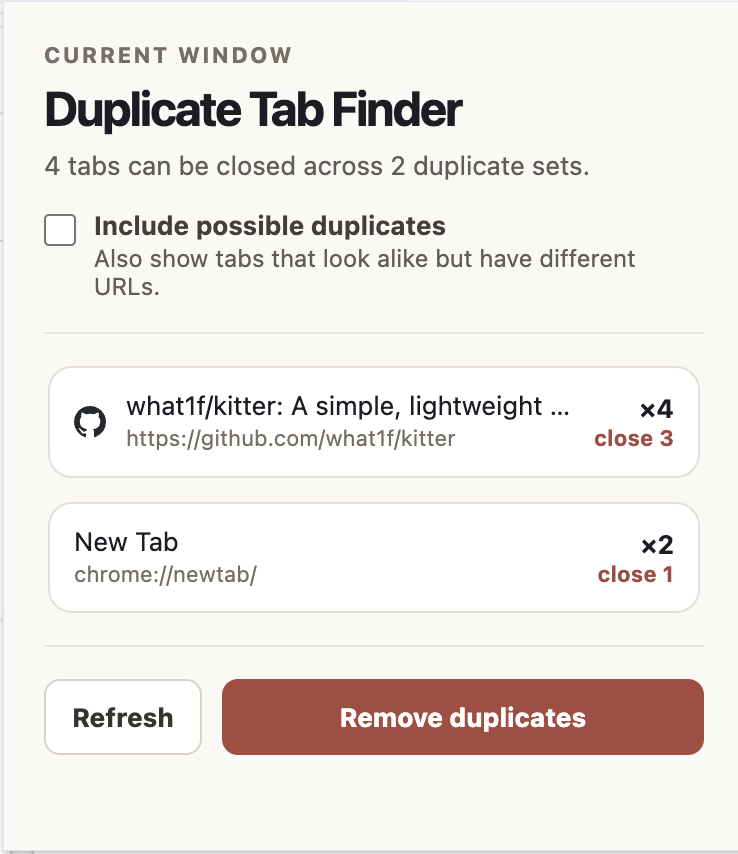
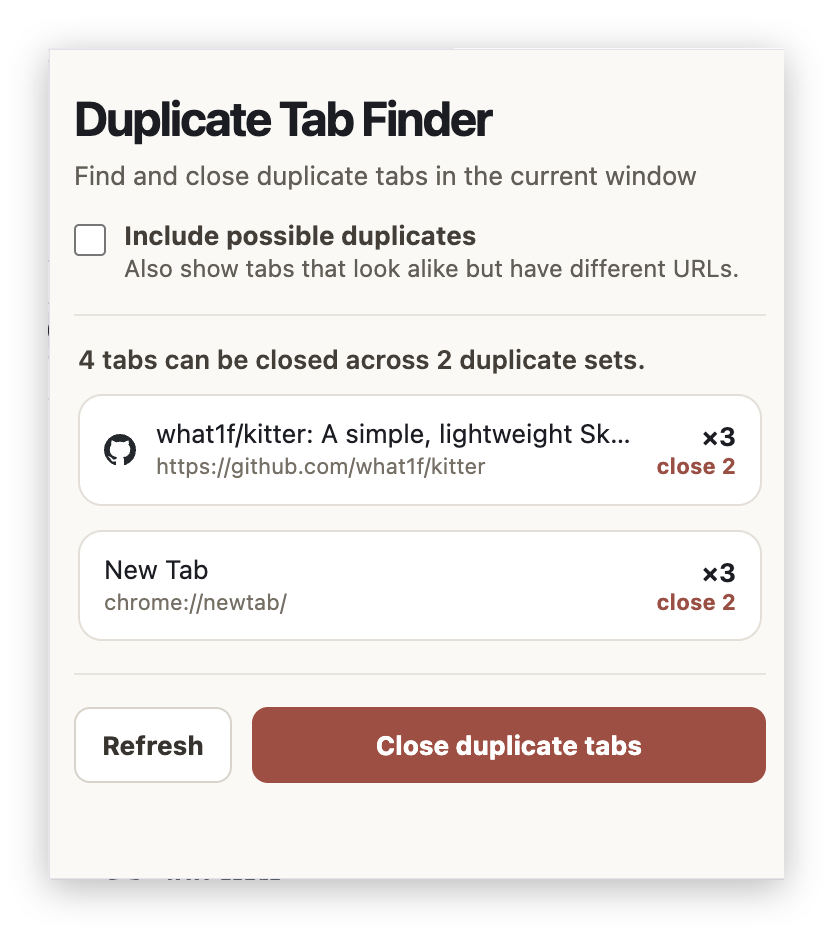
Rework popup layout and copy; refresh screenshot
- Remove 'Current window' eyebrow, add tagline under title
- Move summary above the duplicate list
- Rename button to 'Close duplicate tabs'
- Reduce horizontal padding
- Update screenshot with drop shadow and README

diff --git a/popup.css b/popup.css
@@ -9,15 +9,15 @@
 
 body { margin: 0; min-width: 370px; max-width: 450px; }
 
-main { padding: 20px; }
+main { padding: 20px 12px; }
 
 header { border-bottom: 1px solid #e7e3dc; padding-bottom: 16px; }
 
-.eyebrow { margin: 0 0 6px; color: #766f65; font-size: 11px; font-weight: 750; letter-spacing: .1em; }
+.tagline { margin: 7px 0 0; color: #625d56; font-size: 13px; }
 
 h1 { margin: 0; font-size: 24px; letter-spacing: -.04em; }
 
-.summary { margin: 7px 0 0; color: #625d56; font-size: 13px; }
+.summary { margin: 14px 2px 0; color: #443f37; font-size: 13px; font-weight: 600; }
 
 .setting { display: flex; align-items: flex-start; gap: 9px; margin-top: 15px; color: #443f37; cursor: pointer; }
 .setting input { width: 16px; height: 16px; margin: 2px 0 0; accent-color: #277356; }
@@ -27,7 +27,7 @@ h1 { margin: 0; font-size: 24px; letter-spacing: -.04em; }
 
 [hidden] { display: none !important; }
 
-.results { display: grid; gap: 12px; max-height: 360px; overflow-y: auto; padding: 16px 2px; }
+.results { display: grid; gap: 12px; max-height: 360px; overflow-y: auto; padding: 10px 2px 16px; }
 
 .groups { display: grid; gap: 12px; }
 

diff --git a/popup.html b/popup.html
@@ -9,9 +9,8 @@
   <body>
     <main>
       <header>
-        <p class="eyebrow">CURRENT WINDOW</p>
         <h1>Duplicate Tab Finder</h1>
-        <p id="summary" class="summary" aria-live="polite">Checking your tabs…</p>
+        <p class="tagline">Find and close duplicate tabs in the current window</p>
         <label class="setting">
           <input id="show-similar" type="checkbox" />
           <span>
@@ -20,6 +19,8 @@
           </span>
         </label>
       </header>
+
+      <p id="summary" class="summary" aria-live="polite">Checking your tabs…</p>
 
       <section id="empty-state" class="empty-state" hidden>
         <span aria-hidden="true">✓</span>
@@ -33,7 +34,7 @@
 
       <div class="actions">
         <button id="refresh-button" class="secondary" type="button">Refresh</button>
-        <button id="remove-button" class="danger" type="button" disabled>Remove duplicates</button>
+        <button id="remove-button" class="danger" type="button" disabled>Close duplicate tabs</button>
       </div>
       <p id="status" class="status" aria-live="polite"></p>
     </main>

diff --git a/README.md b/README.md
@@ -14,7 +14,7 @@
 
 <div align="center">
 
-<img src="assets/screenshot.png" alt="Duplicate Tab Finder popup listing two duplicate sets, each with page title, URL, tab count and number to close" width="340" />
+<img src="assets/screenshot.png" alt="Duplicate Tab Finder popup listing two duplicate sets, each with page title, URL, tab count and number to close" width="384" />
 
 </div>
 
@@ -54,10 +54,10 @@ Possible duplicates are guesses, so they are for review only. The extension neve
 
 1. Click the **Duplicate Tab Finder** toolbar icon.
 2. Review the duplicate sets. Each row shows how many tabs will be closed.
-3. Click **Remove duplicates** and confirm. The first tab in each set stays open.
+3. Click **Close duplicate tabs** and confirm. The first tab in each set stays open.
 4. Click **Refresh** to rescan after changing your tabs.
 
-To review tabs that might be duplicates, tick **Include possible duplicates**. The setting is remembered. **Remove duplicates** never touches these; close them individually with **×**.
+To review tabs that might be duplicates, tick **Include possible duplicates**. The setting is remembered. **Close duplicate tabs** never touches these; close them individually with **×**.
 
 ## Installation
 
@@ -92,7 +92,7 @@ tools/generate_icons.py    Rebuilds the icon files above
 
 ## Icon
 
-The mark is the same tab twice: a muted duplicate behind, the tab that stays open in front, and the extra one badged in the same red the popup uses for **Remove duplicates**.
+The mark is the same tab twice: a muted duplicate behind, the tab that stays open in front, and the extra one badged in the same red the popup uses for **Close duplicate tabs**.
 
 Every icon file is generated from the geometry in `tools/generate_icons.py`, which also writes the `assets/icon.svg` master, so the vector and the PNGs can never fall out of sync:
 
